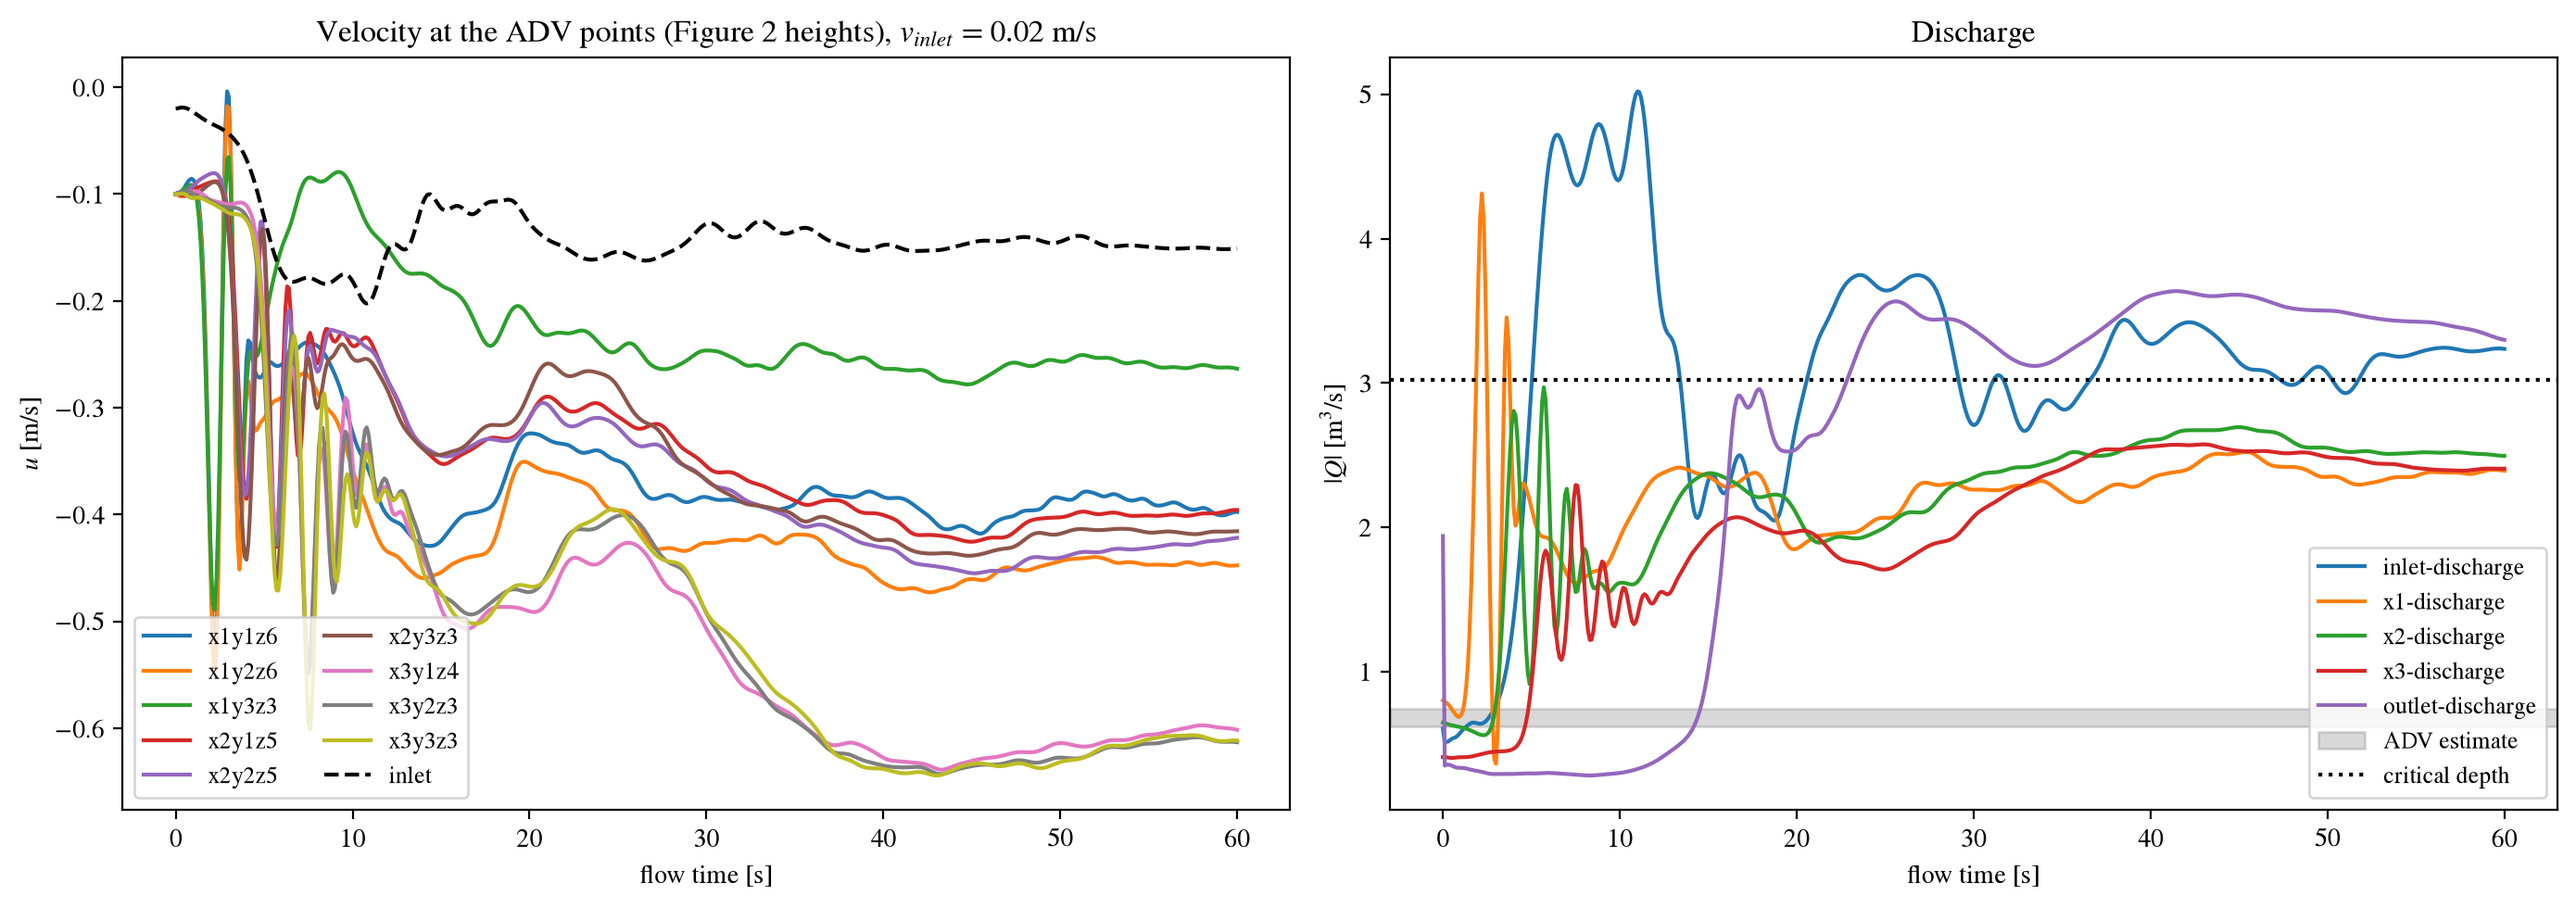
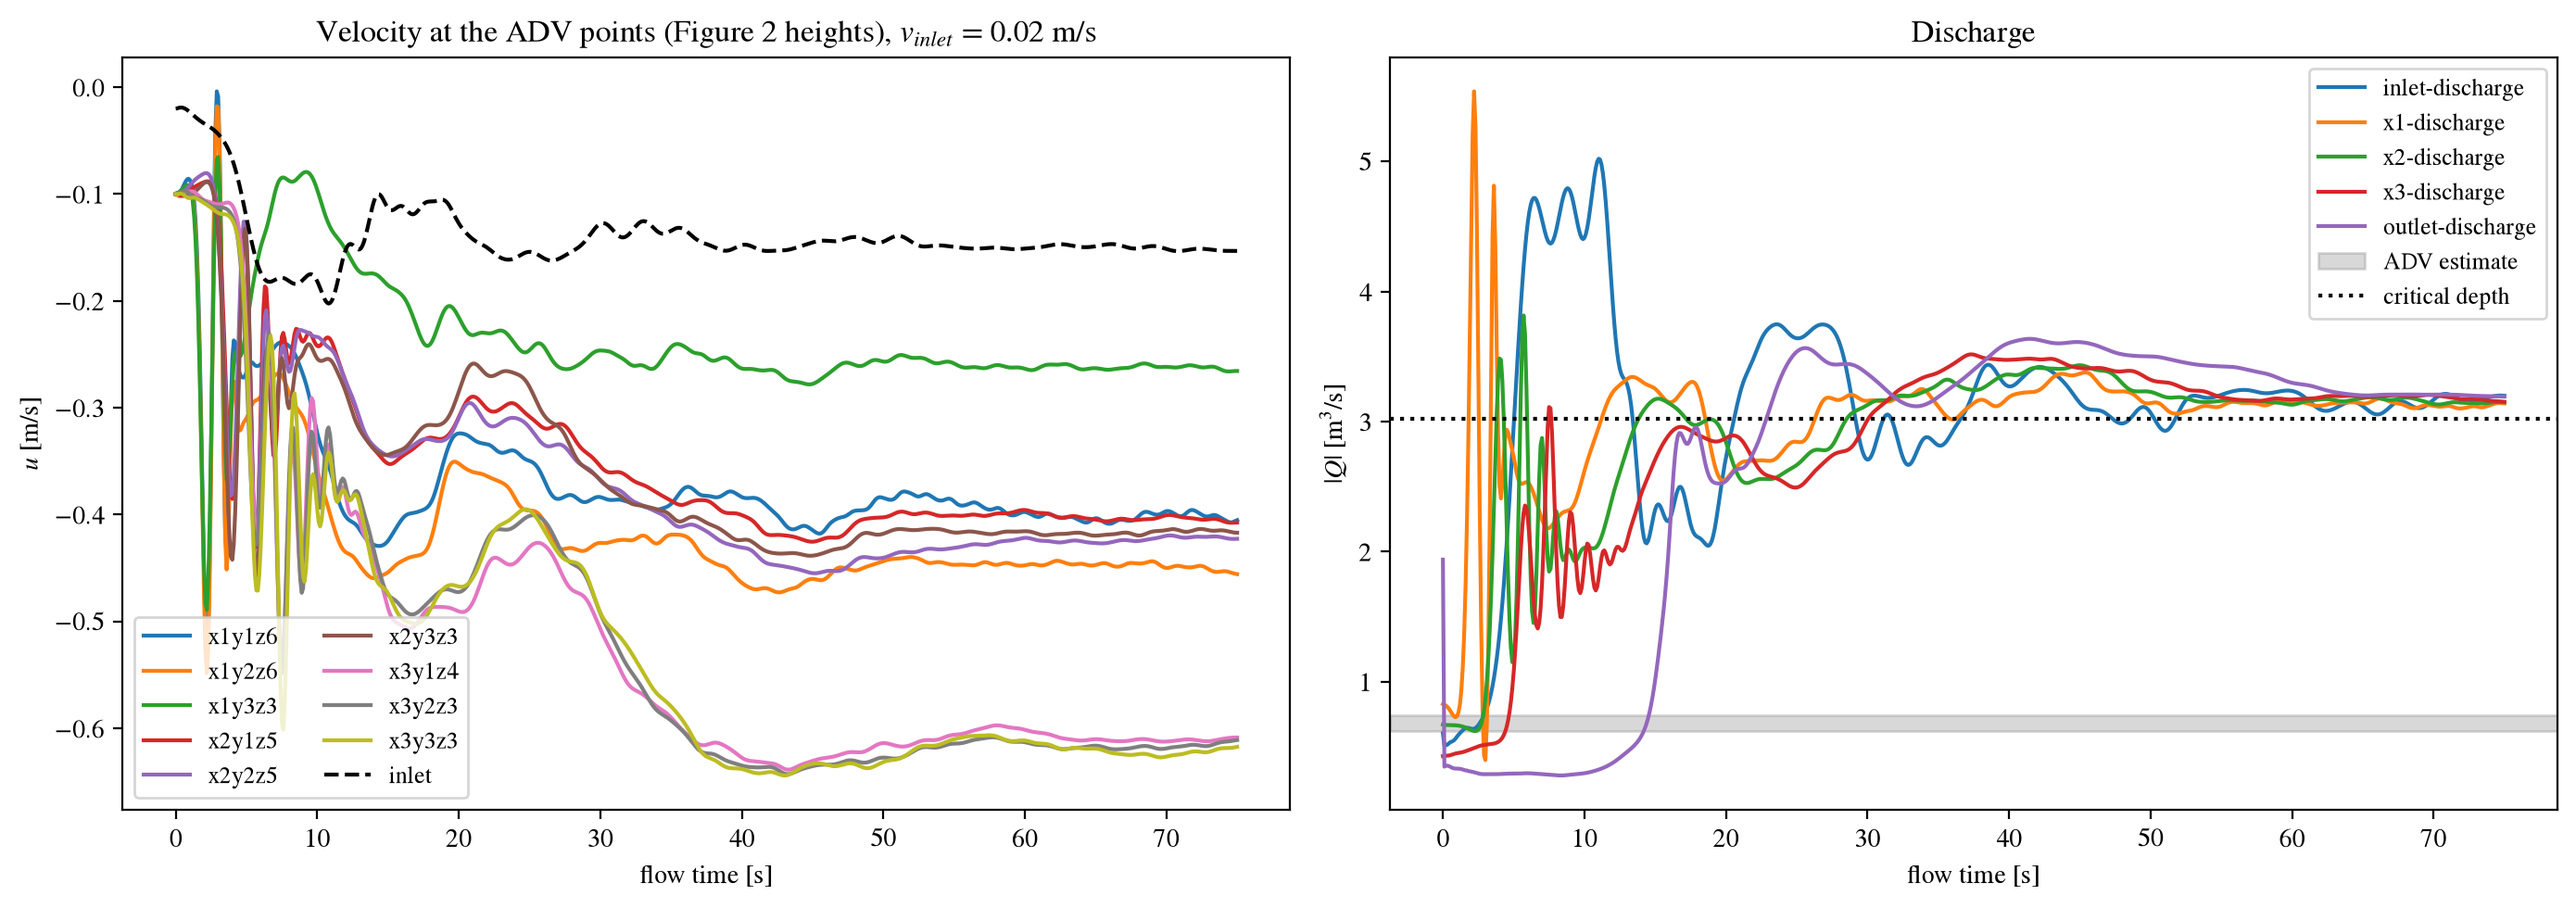
Add side-density comparison; update 0.02 m/s run figures
- main_Fluent_density.py: align the Fluent side-density screenshots of the
  y_c = 0.19, 0.12, 0.07 m runs on a common scale and extract the free surface
- Doc_Figures: Figure_14 (aligned contours), Figure_15 (free-surface profiles);
  Figure_8 and Figure_9 regenerated from the re-run with inlet velocity 0.02 m/s
- README: density script, figure numbers per run, barrier-number work in progress

diff --git a/code/main_Fluent_density.py b/code/main_Fluent_density.py
@@ -1,0 +1,141 @@
+"""Side-density (free-surface) comparison of the Fluent runs with different critical depths (Misery site).
+
+The input images are Fluent screenshots of the mixture density on the side plane, exported with different
+camera views. They are put on a common scale using the geometry:
+    - horizontal origin: the downstream face of the barrier crest; vertical origin: the crest (58.79 m),
+    - relative zoom between images: the distance from the crest to the small block on the downstream bed,
+    - metres per pixel: least-squares fit to the prescribed water depths over the crest (y_c).
+The free surface is taken where the density colour crosses the middle of the colour map (about 500 kg/m^3).
+
+Run from the project folder (Misery/):
+    poetry run python code/main_Fluent_density.py
+"""
+
+from pathlib import Path
+
+import matplotlib.pyplot as plt
+import numpy as np
+from matplotlib.colors import Normalize
+from scipy.ndimage import median_filter
+
+fluentFolder = Path(__file__).resolve().parents[2] / "Fluent Simulation" / "Misery"
+figFolder = Path(__file__).resolve().parent.parent / "Doc_Figures"
+SAVE_FIGURES = True
+FIGURE_NUMBERS = (14, 15)  # (aligned density contours, free-surface profiles)
+
+Z_CREST = 58.79  # barrier crest [m]
+# image, critical depth y_c [m] (= inlet level - crest), discharge through X1-X3 [m^3/s], colour-bar mask (x < px)
+RUNS = [
+    ("v_inlet_0.1/density_profile_0.19.png", 0.19, 3.18, 0),
+    ("y_c_0.12_58.91/density_profile_0.12.png", 0.12, 1.88, 0),
+    ("y_c_0.07_58.86/density_profile_0.07.png", 0.07, 1.13, 140),
+]
+X_LIM = (-4.0, 6.5)    # common window, distance from the barrier crest [m]
+Z_LIM = (56.6, 59.3)   # elevation [m]
+RHO = (1.22, 998.0)    # density range of the Fluent colour map [kg/m^3]
+
+
+def detect(im, x_mask=0, y_max=600):
+    """Crest, block and free surface in one screenshot (pixel coordinates, y downwards)."""
+    sat = im.max(axis=2) - im.min(axis=2) > 0.3   # coloured = inside the fluid domain
+    sat[y_max:] = False                            # horizontal colour bar
+    sat[:, :x_mask] = False                        # vertical colour bar
+    water = sat & (im[..., 0] > im[..., 2])        # red > blue: density above the middle of the map
+    W = im.shape[1]
+    bottom = np.array([np.where(sat[:, x])[0].max() if sat[:, x].any() else -1 for x in range(W)])
+
+    mid = np.arange(W // 4, 3 * W // 4)
+    y_crest = bottom[mid].min()
+    x_crest = mid[bottom[mid] <= y_crest + 2].max()        # downstream face of the crest
+    ds = np.arange(x_crest + 60, W - 5)
+    x_block = ds[np.argmin(bottom[ds])]                    # small block on the downstream bed
+
+    surface = np.full(W, np.nan)
+    for x in range(x_mask, W):
+        rows = np.where(sat[:, x])[0]
+        if len(rows):
+            col = water[:, x]
+            run = np.where(np.convolve(col[rows[0]:y_max], np.ones(5), "valid") == 5)[0]
+            if len(run):
+                surface[x] = rows[0] + run[0]
+    return {"x_crest": x_crest, "y_crest": y_crest, "x_block": x_block, "surface": surface, "x_mask": x_mask}
+
+
+def calibrate(dets):
+    """Pixels per metre of each image: relative zoom from the crest-block distance, absolute scale from y_c."""
+    L = np.array([d["x_block"] - d["x_crest"] for d in dets], float)
+    zoom = L / L[0]
+    x_up = [slice(d["x_mask"] + 20, d["x_crest"] - 150) for d in dets]
+    head_px = np.array([d["y_crest"] - np.nanmedian(d["surface"][s]) for d, s in zip(dets, x_up)]) / zoom
+    y_c = np.array([r[1] for r in RUNS])
+    s0 = np.sum(head_px * y_c) / np.sum(y_c ** 2)          # least squares: head_px = s0 * y_c
+    return s0 * zoom
+
+
+def to_metres(d, s, shape):
+    """imshow extent [x0, x1, z0, z1] and the free-surface profile in metres."""
+    H, W = shape[:2]
+    extent = [(0 - d["x_crest"]) / s, (W - d["x_crest"]) / s, Z_CREST - (H - d["y_crest"]) / s,
+              Z_CREST + d["y_crest"] / s]
+    x = (np.arange(W) - d["x_crest"]) / s
+    z = Z_CREST - (median_filter(d["surface"], 5, mode="nearest") - d["y_crest"]) / s
+    return extent, x, z
+
+
+def plot_contours(images, dets, scales):
+    fig, axs = plt.subplots(len(RUNS), 1, figsize=(11, 8.5), sharex=True, sharey=True)
+    for ax, im, d, s, (_, y_c, Q, _) in zip(axs, images, dets, scales, RUNS):
+        extent, _, _ = to_metres(d, s, im.shape)
+        img = im.copy()
+        img[:, :d["x_mask"]] = 1.0                       # hide the vertical colour bar
+        ax.imshow(img, extent=extent, aspect="equal", interpolation="bilinear")
+        ax.axhline(Z_CREST + y_c, color="k", ls="--", lw=0.8)
+        ax.set_title(f"$y_c$ = {y_c:.2f} m (inlet level {Z_CREST + y_c:.2f} m), $Q$ = {Q:.2f} m$^3$/s", fontsize=11)
+        ax.set(xlim=X_LIM, ylim=Z_LIM, ylabel="$z$ [m]")
+    axs[-1].set_xlabel("distance from the barrier crest [m] (downstream positive)")
+    sm = plt.cm.ScalarMappable(norm=Normalize(*RHO), cmap="jet")
+    fig.colorbar(sm, ax=axs, shrink=0.6, label="density (mixture) [kg/m$^3$]")
+    return fig
+
+
+def plot_surfaces(images, dets, scales):
+    fig, ax = plt.subplots(figsize=(11, 4.5))
+    colors = ["tab:red", "tab:orange", "tab:blue"]
+    for im, d, s, (_, y_c, Q, _), c in zip(images, dets, scales, RUNS, colors):
+        _, x, z = to_metres(d, s, im.shape)
+        ok = (x >= X_LIM[0]) & (x <= X_LIM[1]) & (np.arange(len(x)) >= d["x_mask"] + 5)
+        ax.plot(x[ok], z[ok], color=c, lw=1.6, label=f"$y_c$ = {y_c:.2f} m, $Q$ = {Q:.2f} m$^3$/s")
+    ax.axhline(Z_CREST, color="grey", lw=0.8)
+    ax.text(X_LIM[0] + 0.1, Z_CREST - 0.07, "crest 58.79 m", color="grey", fontsize=9)
+    ax.axvline(0, color="grey", lw=0.8, ls=":")
+    ax.set(xlim=X_LIM, xlabel="distance from the barrier crest [m] (downstream positive)",
+           ylabel="free-surface elevation $z$ [m]", title="Free surface (density = 500 kg/m$^3$) on the side plane")
+    ax.legend(fontsize=9)
+    fig.tight_layout()
+    return fig
+
+
+def main():
+    images = [plt.imread(fluentFolder / f)[..., :3] for f, *_ in RUNS]
+    dets = [detect(im, x_mask) for im, (*_, x_mask) in zip(images, RUNS)]
+    scales = calibrate(dets)
+
+    print("--- Image calibration ---")
+    for d, s, (f, y_c, _, _) in zip(dets, scales, RUNS):
+        i_up = slice(d["x_mask"] + 20, d["x_crest"] - 150)
+        head = (d["y_crest"] - np.nanmedian(d["surface"][i_up])) / s
+        _, x, z = to_metres(d, s, (0, len(d["surface"])))
+        far = (x > X_LIM[1] - 1.0) & (x <= X_LIM[1])
+        print(f"{f}: {s:.1f} px/m; depth over crest upstream {head:.3f} m (set {y_c:.2f} m); "
+              f"free surface {X_LIM[1] - 0.5:.1f} m downstream: {np.nanmedian(z[far]):.2f} m")
+
+    fig1 = plot_contours(images, dets, scales)
+    fig2 = plot_surfaces(images, dets, scales)
+    if SAVE_FIGURES:
+        for fig, n in zip((fig1, fig2), FIGURE_NUMBERS):
+            fig.savefig(figFolder / f"Figure_{n}.png", dpi=200, bbox_inches="tight")
+    plt.show()
+
+
+if __name__ == "__main__":
+    main()

diff --git a/README.md b/README.md
@@ -17,7 +17,8 @@ Misery/
 ├── code/
 │   ├── main_ADV.py           # ADV: load, despike, time-average, plot
 │   ├── main_ADCP.py          # ADCP: load, average samples, orient, plot
-│   └── main_Fluent.py        # Fluent results vs ADV: time series, steady state, profiles
+│   ├── main_Fluent.py        # Fluent results vs ADV: time series, steady state, profiles
+│   └── main_Fluent_density.py # Fluent side-density screenshots: aligned contours, free surface
 ├── src/misery/               # installable package (reusable functions)
 │   ├── filters.py            # mPST_ADVSpikeFilter — ADV despiking
 │   ├── discharge.py          # velocity–area discharge from verticals
@@ -141,8 +142,17 @@ Interactive Window, where `ParentDataset` (ADV) and `ADCPDataset` (ADCP) stay in
 2. **Steady state**: values are averaged over the last `AVG_WINDOW` = 10 s, and the change from the
    10 s before (drift) is reported.
 3. **Compare** the final velocities with the time-averaged ADV velocities at the same points.
-4. **Plot** and save to `Doc_Figures/` (numbers in `FIGURE_NUMBERS`): velocity at the ADV points and
-   discharge against time, and velocity profiles at the center verticals (Y2), Fluent vs ADV.
+4. **Plot** and save to `Doc_Figures/` (figure numbers in each `RUNS` entry): velocity at the ADV
+   points and discharge against time, and velocity profiles at the center verticals (Y2), Fluent vs ADV.
+
+### Free surface over the barrier (`main_Fluent_density.py`)
+
+Compares the side-plane mixture-density screenshots exported from Fluent for runs with different
+critical depths (y_c = 0.19, 0.12, 0.07 m). The screenshots have different camera views, so they are
+put on a common scale using the geometry: origin at the barrier crest (58.79 m), relative zoom from
+the crest-to-block distance, and metres per pixel fitted to the prescribed depths over the crest
+(recovered within 1 cm). The free surface is taken where the colour crosses the middle of the density
+map (about 500 kg/m³). Outputs: aligned contours and free-surface profiles (`Figure_14`, `Figure_15`).
 
 The Fluent output is not included in this repository.
 
@@ -167,6 +177,9 @@ The Fluent output is not included in this repository.
 - Combined ADV + ADCP analysis in global coordinates.
 - Fluent runs with inlet levels between 58.86 and 58.91 m (the measured velocities lie between these two
   runs); compare the simulated cross-sectional areas at X1–X3 with the ADV survey.
+- Barrier number B = ū (ε L)^(1/3) / (g H) (Reynolds, 2024) along lines downstream of the barrier
+  that match the flume sampling locations (centerline and jumping pool), starting from y_c = 0.12 m
+  and increasing the inlet level.
 
 ## License
 
